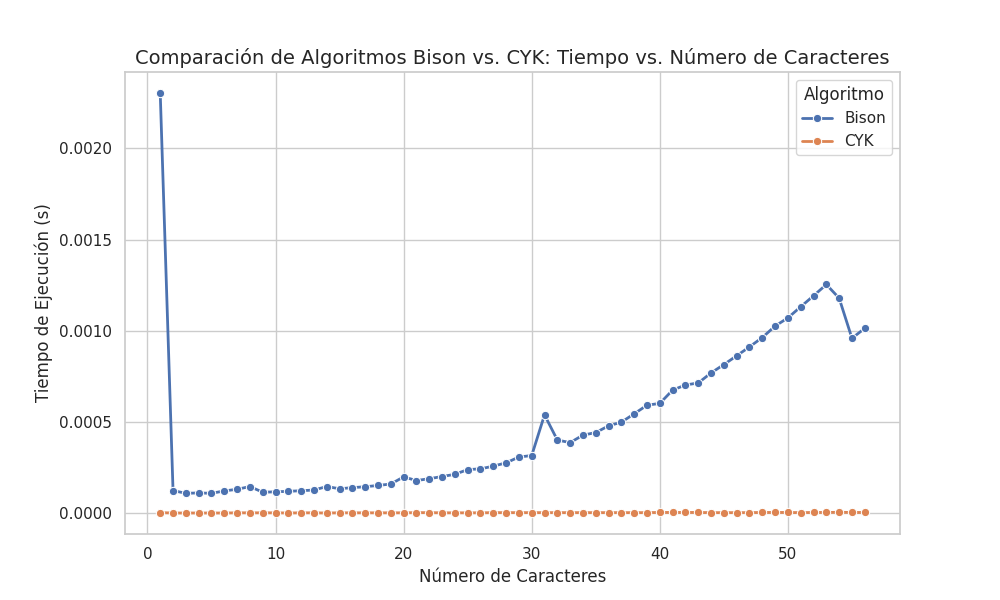
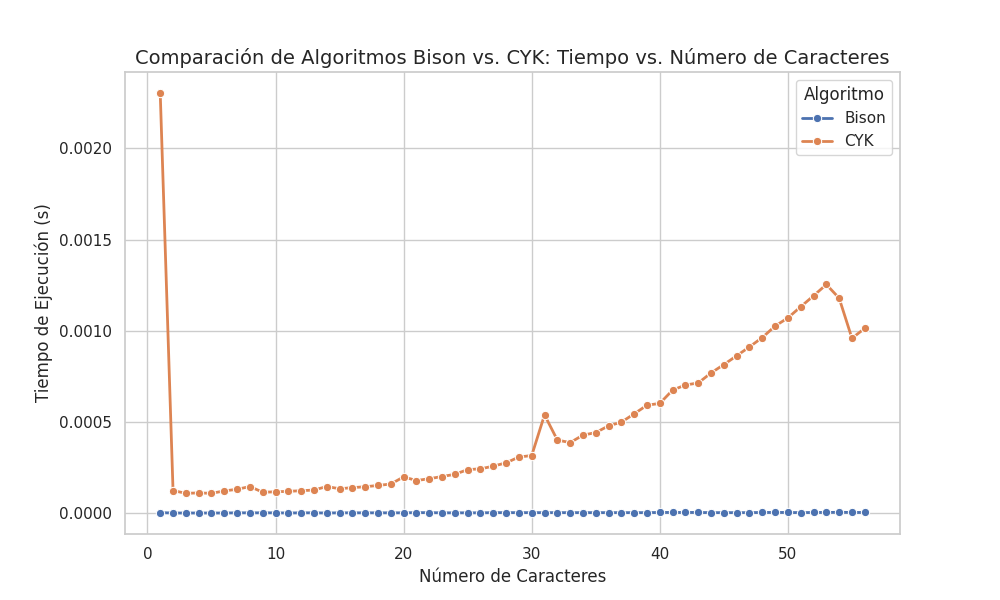
corrigiendo grafica

diff --git a/grafica.py b/grafica.py
@@ -3,8 +3,8 @@ import matplotlib.pyplot as plt
 import seaborn as sns
 
 # Cargar ambos archivos
-df_cyk = pd.read_csv("/home/luanzy/Documentos/universidad/lenguajes/taller1-C2/comparacion/bison/datosbison.csv")
-df_bison = pd.read_csv("/home/luanzy/Documentos/universidad/lenguajes/taller1-C2/comparacion/codigoC/datoscyk.csv")
+df_cyk = pd.read_csv("/home/luanzy/Documentos/universidad/lenguajes/taller2-C2/codigoC/datoscyk.csv")
+df_bison = pd.read_csv("/home/luanzy/Documentos/universidad/lenguajes/taller2-C2/bison/datosbison.csv")
 
 df_bison["Longitud"] = df_bison["Cadena"].apply(len)
 df_cyk["Longitud"] = df_cyk["Cadena"].apply(len)
